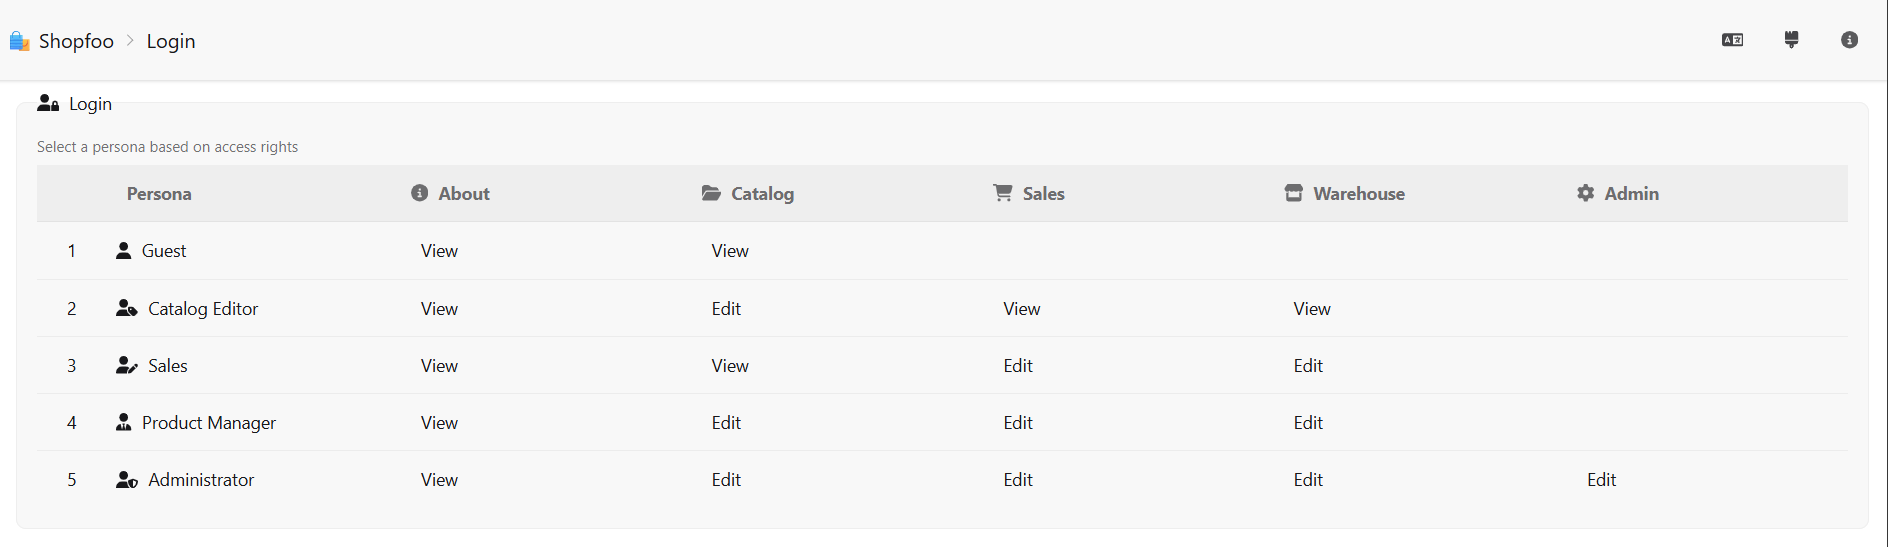
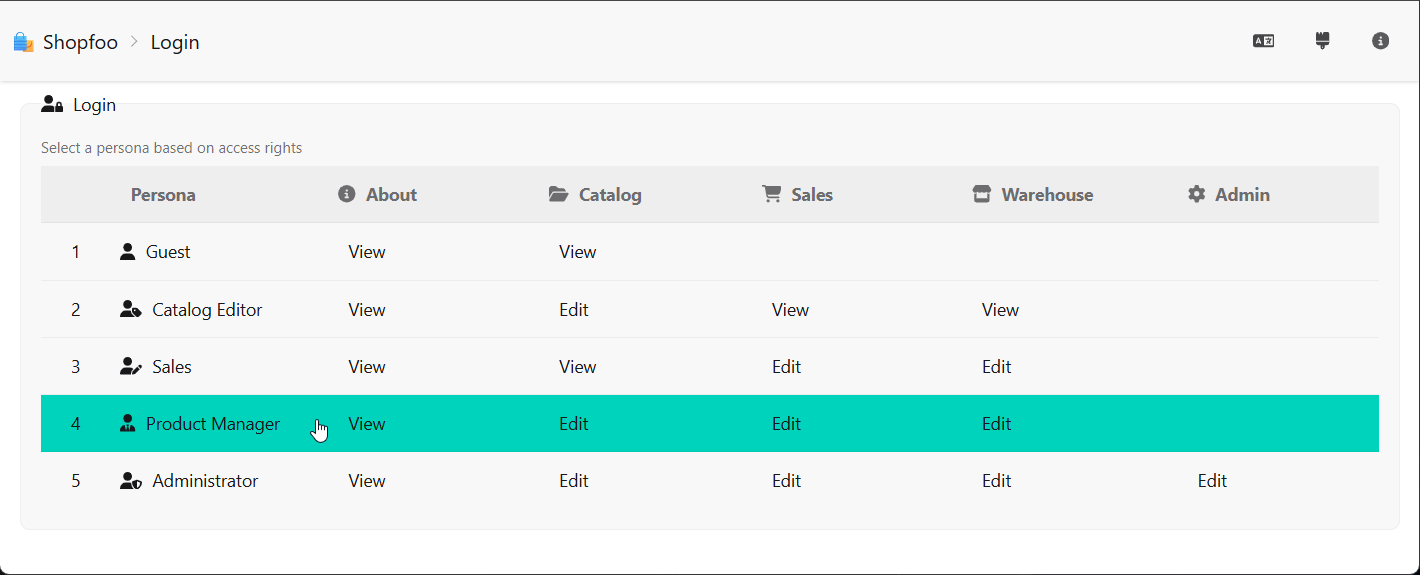
feat: ✅ complete shopfoo chapter

diff --git a/shopfoo/products.md b/shopfoo/products.md
@@ -1,62 +1,111 @@
 # Products
 
-This page describes how Shopfoo fetches, caches, and displays its product catalogue, and how users can search and filter products.
+This page describes how Shopfoo fetches, caches, and displays its product catalog, and how users can search and filter products.
 
-## Cache & Seeding
-
-The application relies on an **in-memory cache** — there is no persistent database. On startup, a **seeding phase** populates the cache with around fifteen books. Products are then added and updated **progressively** as the user interacts with the application: browsing a product for the first time fetches it from the external API and stores it in the cache.
+{% hint style="info" %}
+All display state — active filters, search term, sort column and direction — is reflected in the URL. Any combination can be bookmarked or shared as a direct link.
+{% endhint %}
 
 ## Provider choice
 
 Shopfoo sells two types of products, each sourced from a different external API:
 
-| Type | Source |
-|------|--------|
-| **Books** | [OpenLibrary API](https://openlibrary.org/developers/api) |
-| **Other products** | [FakeStore API](https://fakestoreapi.com) |
+| Provider                                                  | Type         | Categories                           |
+| --------------------------------------------------------- | ------------ | ------------------------------------ |
+| [FakeStore API](https://fakestoreapi.com)                 | **🏪 Bazaar** | 👗 Clothing, 🔌 Electronics, 💍 Jewelry |
+| [OpenLibrary API](https://openlibrary.org/developers/api) | **📘 Books**  | 📚 Books                              |
+
+## Cache & Seeding
+
+The application relies on an **in-memory cache** — there is no persistent database. On startup, a **seeding phase** populates the cache with around fifteen books. Products are then added and updated **progressively** as the user interacts with the application: browsing a product for the first time fetches it from the external API and stores it in the cache.
 
 The provider is determined by the product type and is transparent to the user.
 
 ## Table display
 
-Products are listed in a **sortable table**. Each row shows the key product attributes. Clicking a column header sorts the list by that column.
+Products are listed in a **sortable table**. The table header is **sticky**: it remains visible at the top of the page while scrolling down through a long list.
 
-**Columns common to all products:** name, retail price, list price (MSRP), stock quantity.
+Each row shows the key product attributes:
 
-**Book-specific columns:** subtitle, author(s), publication year, ISBN.
+| Column      | 🏪 Bazaar | 📘 Books | Notes                            |
+| ----------- | :-------: | :------: | -------------------------------- |
+| #           |    ✅     |    ✅    | Row number                       |
+| SKU         |    ✅     |    ✅    |                                  |
+| Category    |    ✅     |    —     |                                  |
+| Name        |    ✅     |    ✅    | Books: title + optional subtitle |
+| Authors     |    —      |    ✅    |                                  |
+| Tags        |    —      |    ✅    |                                  |
+| Description |    ✅     |    ✅    |                                  |
 
-📸 _Screenshot: product table — books_
+### Bazaar
 
-📸 _Screenshot: product table — other products_
+![Bazaar](./img/bazaar.png)
 
-## Book specifics
+### Books
 
-Books have dedicated fields not present on other products:
+![Books](./img/books.png)
 
-- **Subtitle**
-- **Author(s)**
-- **Publication year**
-- **ISBN**
+### Truncation
 
-These fields are displayed in the table and on the book detail page.
+Long text cells (**Name** and **Description**) are truncated with an ellipsis and capped at 2 lines by default. On mouse hover, the row expands to reveal up to 3 lines. For books specifically, the **Name** column also changes layout on hover: the two-line `Title ↵ Subtitle` view collapses into a single `Title: Subtitle` line.
 
-## Pricing
+Example:
 
-Each product has two price fields:
+```txt
+┌────────┬──────────────────────────────────┬───────────────────────────────────────┐
+│ State  │ Name                             │ Description                           │
+├────────┼──────────────────────────────────┼───────────────────────────────────────┤
+│ Normal │ Clean Code                       │ Even bad code can function. But if    │
+│        │ A Handbook of Agile Software…    │ code isn't clean, it can bring a…     │
+├────────┼──────────────────────────────────┼───────────────────────────────────────┤
+│ Hover  │ Clean Code: A Handbook of Agile  │ Even bad code can function. But if    │
+│        │ Software Craftsmanship           │ code isn't clean, it can bring a      │
+│        │                                  │ development organization to its…      │
+└────────┴──────────────────────────────────┴───────────────────────────────────────┘
+```
 
-- **Retail price** — the price charged to the customer.
-- **List price** (MSRP) — the manufacturer's or publisher's recommended retail price. Optional.
+### Sorting
+
+All columns except **Description** are sortable. Clicking a column header cycles through ascending and descending order. An icon in the header indicates the current sort state:
+
+| Icon | Color | Meaning                        |
+| ---- | ----- | ------------------------------ |
+| ⏶⏷   | Grey  | Sortable, not currently sorted |
+| ⏶    | Green | Sorted ascending               |
+| ⏷    | Green | Sorted descending              |
+
+![Sorted by SKU in ascendent order](./img/sort-by-sku-asc.png)
 
 ## Filter & search
 
-### Inline pre-filtering
+The product page has its own **toolbar** above the table, organized in three parts:
 
-The table provides an **inline filter** row that lets users type directly into each column to narrow down the displayed results in real time.
+**1. Product type switcher** — selects between 🏪 Bazaar and 📘 Books. The total number of products of the selected type is displayed next to the label, independently of any active filters.
 
-📸 _Screenshot: product table with active inline filter_
+**2. Attribute filters** — faceted filters that vary by product type:
 
-### OpenLibrary search fallback
+| Type      | Filters                                                              |
+| --------- | -------------------------------------------------------------------- |
+| 🏪 Bazaar | One filter with 3 positions: 👗 Clothing, 🔌 Electronics, 💍 Jewelry |
+| 📘 Books  | Two dropdown filters: Authors and Tags                               |
 
-When the inline pre-filter is applied to the **books** list and returns **no results** from the cache, Shopfoo automatically queries the **OpenLibrary API** to search for matching books. Any books found are added to the cache and displayed in the table, allowing users to discover and load new books on demand.
+Each filter option shows the number of matching products.
 
-📸 _Screenshot: OpenLibrary search results loaded into the table_
+When a filter is active, the matching values in the corresponding table column are highlighted — governed by the same **Highlight matches** toggle as the text search.
+
+**3. Text search** — a free-text input that searches across all table columns (except the row number `#`). Only rows containing the search term are displayed. Two options complement the search:
+
+- **Case-sensitive** — toggles case sensitivity (disabled by default).
+- **Highlight matches** — found occurrences are highlighted in the results (enabled by default).
+
+**Demo:**
+
+![Filters](./img/filters.gif)
+
+## OpenLibrary search
+
+When browsing 📘 **Books** with an active text search term, a 🔍 **search button** appears in the toolbar. Clicking it triggers a query to the OpenLibrary API using the current search term, fetching up to **30 results**. Those results are then re-filtered locally by the same text search to produce the final list, which is merged directly into the table alongside the books already in the cache. Books loaded this way are identifiable by the ✨ emoji prefixed to their title.
+
+![OpenLibrary search](./img/openlib-search.gif)
+
+From there, a selected book can be permanently added to the in-memory cache — this is covered in detail in the [Product Management](management.md) page.

diff --git a/shopfoo/management.md b/shopfoo/management.md
@@ -6,28 +6,43 @@ This page describes how products are managed in Shopfoo: editing product informa
 
 Product management in Shopfoo spans four business areas:
 
-| Area | Responsibility |
-|------|---------------|
-| **Catalog** | Product information and pricing |
-| **Sales** | Customer orders and revenue |
-| **Purchases** | Supplier orders and restocking |
-| **Warehouse** | Stock levels and inventory corrections |
+| Area          | Responsibility                         | Claim            |
+| ------------- | -------------------------------------- | ---------------- |
+| **Catalog**   | Product information                    | `Feat.Catalog`   |
+| **Sales**     | Pricing, customer orders and revenue   | `Feat.Sales`     |
+| **Purchases** | Supplier orders and restocking         | `Feat.Warehouse` |
+| **Warehouse** | Stock levels and inventory corrections | `Feat.Warehouse` |
+
+Each business area on the product page is only rendered if the current user holds the corresponding claim. Within a visible area, the access level further determines the UI state: a **View** claim renders form components as read-only or disabled; an **Edit** claim enables full interaction.
 
 ## Task-Based UI approach
 
 Rather than a single generic edit form, Shopfoo uses a **Task-Based UI**: each user intention maps to a dedicated, focused command. This avoids the anaemic CRUD screens typical of back-offices and makes the business intent explicit.
 
+![alt text](./img/areas.png)
+
 {% hint style="info" %}
 For an introduction to Task-Based UIs, see Derek Comartin's video [Task-Based UI](https://www.youtube.com/watch?v=BgRMHpqxVKA).
 {% endhint %}
 
-📸 _Screenshot: product page showing the available task commands_
-
 ## Product editing
 
-The **Edit product** task allows users to modify the descriptive information of a product (name, subtitle, author, etc.). This maps to the **Catalog** business area.
+The **Edit product** task allows users to modify the descriptive information of a product. The fields available depend on the product type:
 
-📸 _Screenshot: product edit form_
+| Field       | 🏪 Bazaar | 📘 Books | Required | Max Length | Component                 |
+| ----------- | :------: | :-----: | :------: | :--------: | ------------------------- |
+| Name        |    ✅     |    ✅    |    ✅     |    128     | Text input                |
+| Category    |    ✅     |    —    |    ✅     |     —      | Radio button group        |
+| Subtitle    |    —     |    ✅    |          |    256     | Text input                |
+| Authors     |    —     |    ✅    |          |     —      | Multi-select              |
+| Image URL   |    ✅     |    ✅    |          |     —      | Text input + live preview |
+| Description |    ✅     |    ✅    |          |    512     | Text input                |
+
+Visual feedback guides the user during editing: a **character counter** (`remaining / max`) is displayed for length-constrained fields, and a **red border** highlights any field with an invalid value after edition.
+
+{% hint style="info" %}
+See the [Validation](../front-end/validation.md) page for the front-end validation implementation details.
+{% endhint %}
 
 ## Pricing management
 
@@ -38,24 +53,40 @@ The **Update pricing** task manages the two price fields independently:
 
 This is a separate task from general editing because pricing decisions often involve different roles or approval workflows.
 
-## Purchase entry
+The available pricing actions are:
 
-The **Record purchase** task simulates a **stock arrival from a supplier**. It represents goods received from a supplier, affecting both the **Purchases** area (supplier order) and the **Warehouse** area (stock increase).
+| Action           | List price | Retail price | Condition    |
+| ---------------- | :--------: | :----------: | ------------ |
+| Define           |     ✅      |      ✅       | Price = None |
+| Increase price   |     ✅      |      ✅       | Price ≠ None |
+| Decrease price   |     ✅      |      ✅       | Price ≠ None |
+| Remove           |     ✅      |      —       | Price ≠ None |
+| Mark as sold out |     —      |      ✅       | Stock = 0    |
 
-Users enter the quantity received. The stock level is updated accordingly.
+![Pricing](./img/pricing.gif)
 
-📸 _Screenshot: purchase entry form (stock arrival)_
+{% hint style="info" %}
+The pricing drawer uses the [DaisyUI Drawer](https://daisyui.com/components/drawer/) component and opens from the **right**, pushing the "Actions" column to the left. This keeps all prices visible while the drawer is open — handy when entering a price relative to the others (e.g. for a book, the Retail Price should never exceed the List Price, even though nothing enforces this technically).
+{% endhint %}
 
 ## Sales entry
 
-The **Record sale** task simulates a **customer purchase** on the storefront. It affects the **Sales** area (revenue) and the **Warehouse** area (stock decrease).
+The **Input sales** task simulates **customer purchases** on the storefront. It affects the **Sales** area (revenue) and the **Warehouse** area (stock decrease).
 
-Users enter the quantity sold. The stock level is decremented accordingly.
+Users enter the sale date, then the quantity bought, and finally the sale price — which is pre-filled with the current Retail Price. The stock level is decremented accordingly.
 
-📸 _Screenshot: sales entry form_
+![Input sales](./img/input-sales.gif)
+
+## Purchase entry
+
+The **Receive purchased products** task simulates a **stock arrival from a supplier**. It represents goods received from a supplier, affecting both the **Purchases** area (supplier order) and the **Warehouse** area (stock increase).
+
+Users enter the purchase date, then the quantity supplied, and finally the purchase price — which is not pre-filled. The stock level is incremented accordingly.
+
+![Receive products](./img/receive-products.gif)
 
 ## Stock adjustment
 
-The **Adjust stock** task simulates an **inventory correction** following a warehouse count. It falls under the **Warehouse** area and allows entering a positive or negative quantity delta to reconcile the recorded stock with the physical count.
+The **Inventory adjustment** task simulates an **inventory correction** following a warehouse count. It falls under the **Warehouse** area and allows entering a different quantity to reconcile the recorded stock with the physical count.
 
-📸 _Screenshot: stock adjustment form_
+![Inventory adjustment](./img/inventory-adjustment.gif)

diff --git a/shopfoo/general.md b/shopfoo/general.md
@@ -2,6 +2,25 @@
 
 This page covers the cross-cutting features available to all users: authentication, default landing page, and access-controlled pages that demonstrate Shopfoo's security model.
 
+## About page
+
+The **About page** presents Shopfoo as a demo project showcasing the _❝ Safe Clean Architecture ❞_. It displays four pieces of information:
+
+- **🏷 Version** — determined at deployment time using [SemVer](https://semver.org/) (Semantic Versioning), derived from the [Conventional Commits](https://www.conventionalcommits.org/) history since the previous deployment.
+- **🧑💻 Authors** — the names of the project's authors.
+- **📖 GitBook** — a link to this documentation.
+- **🧬 GitHub** — a link to the Shopfoo source code repository.
+
+![About page](./img/about.png)
+
+This page is accessible **without login** (anonymous mode). It is intentionally public to demonstrate how certain pages can bypass authentication — useful for testing public-access routes in the front-end security setup.
+
+{% hint style="info" %}
+See the [Security](../front-end/security.md) chapter for how public routes are configured on the client side.
+
+See also the [Versioning](../front-end/versioning.md) page for how the version number is determined at deployment time.
+{% endhint %}
+
 ## Login
 
 Shopfoo requires authentication, but uses a **simplified model with no real auth backend** (no OAuth, no JWT). The login page displays a table of predefined **personas**. The user clicks a row to instantly "log in" as that persona.
@@ -14,18 +33,12 @@ See the [Security](../front-end/security.md) chapter for the full claims-based a
 
 ## Default page
 
-After login, the application lands on the **Home page**, which displays the product catalogue. This is the main working area of the back-office.
+After login, the application lands on the **Home page**, which displays the product catalog. This is the main working area of the back-office.
 
 ![Home page](./img/home.png)
 
-## About page
-
-The **About page** is accessible **without login** (anonymous mode). It is intentionally public to demonstrate how certain pages can bypass authentication — useful for testing public-access routes in the front-end security setup.
-
-![About page](./img/about.png)
-
 {% hint style="info" %}
-See the [Security](../front-end/security.md) chapter for how public routes are configured on the client side.
+See the [Products](products.md) page for details on the product catalog.
 {% endhint %}
 
 ## Admin page
@@ -39,5 +52,7 @@ See the [Security](../front-end/security.md) chapter for how claim-based guards 
 {% endhint %}
 
 ## Demo
+
+The following demo illustrates the features described on this page:
 
 ![General demo](./img/general-demo.gif)

diff --git a/shopfoo/introduction.md b/shopfoo/introduction.md
@@ -51,5 +51,5 @@ The following pages walk through how the application works and describe its feat
 
 - [General Features](general.md) — login, default page, About and Admin pages
 - [Navigation & UI](navigation.md) — breadcrumb, menu, language and theme selectors
-- [Products](products.md) — catalogue, data sources, cache, filtering and search
+- [Products](products.md) — catalog, data sources, cache, filtering and search
 - [Product Management](management.md) — task-based UI, editing, pricing, stock and sales

diff --git a/shopfoo/navigation.md b/shopfoo/navigation.md
@@ -31,7 +31,7 @@ Each breadcrumb segment can act as a **navigation link** to move back up the hie
 - **Products** links to `/products`, unless the current page is already `/products`.
 
 {% hint style="info" %}
-See the [Navigation](../front-end/navigation.md) chapter for the client-side routing and breadcrumb implementation.
+See the [Front-end > Navigation](../front-end/navigation.md) chapter for the client-side routing and breadcrumb implementation.
 {% endhint %}
 
 ## User menu

diff --git a/SUMMARY.md b/SUMMARY.md
@@ -5,7 +5,7 @@
 * [Audience](audience.md)
 * [Status](status.md)
 
-## Shopfoo 🚧
+## Shopfoo
 
 * [Introduction](shopfoo/introduction.md)
 * [General Features](shopfoo/general.md)
